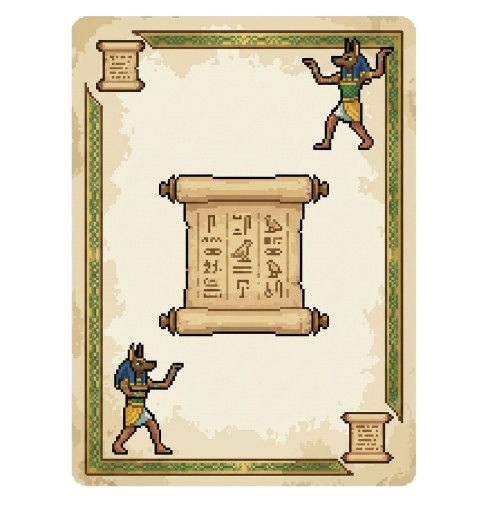
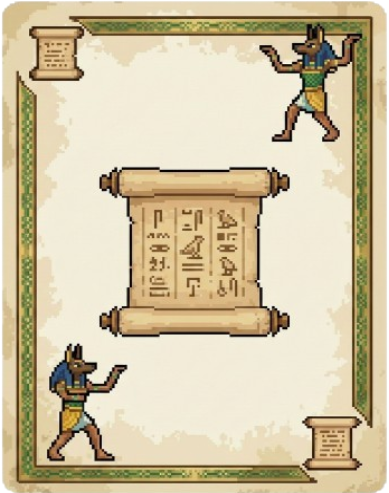
Fix image size ratio

diff --git a/tesori_nascosti_gui.py b/tesori_nascosti_gui.py
@@ -444,7 +444,7 @@ class TesoriNascosti(EasyFrame):
 
     def carica_immagine(self, percorso):
         immagine_pil = Image.open(percorso)
-        immagine_ridimensionata = immagine_pil.resize((55, 70), Image.Resampling.LANCZOS)
+        immagine_ridimensionata = (immagine_pil.resize((55, 70), Image.Resampling.LANCZOS))
         return ImageTk.PhotoImage(immagine_ridimensionata)
 
     def torna_al_menu_principale(self):